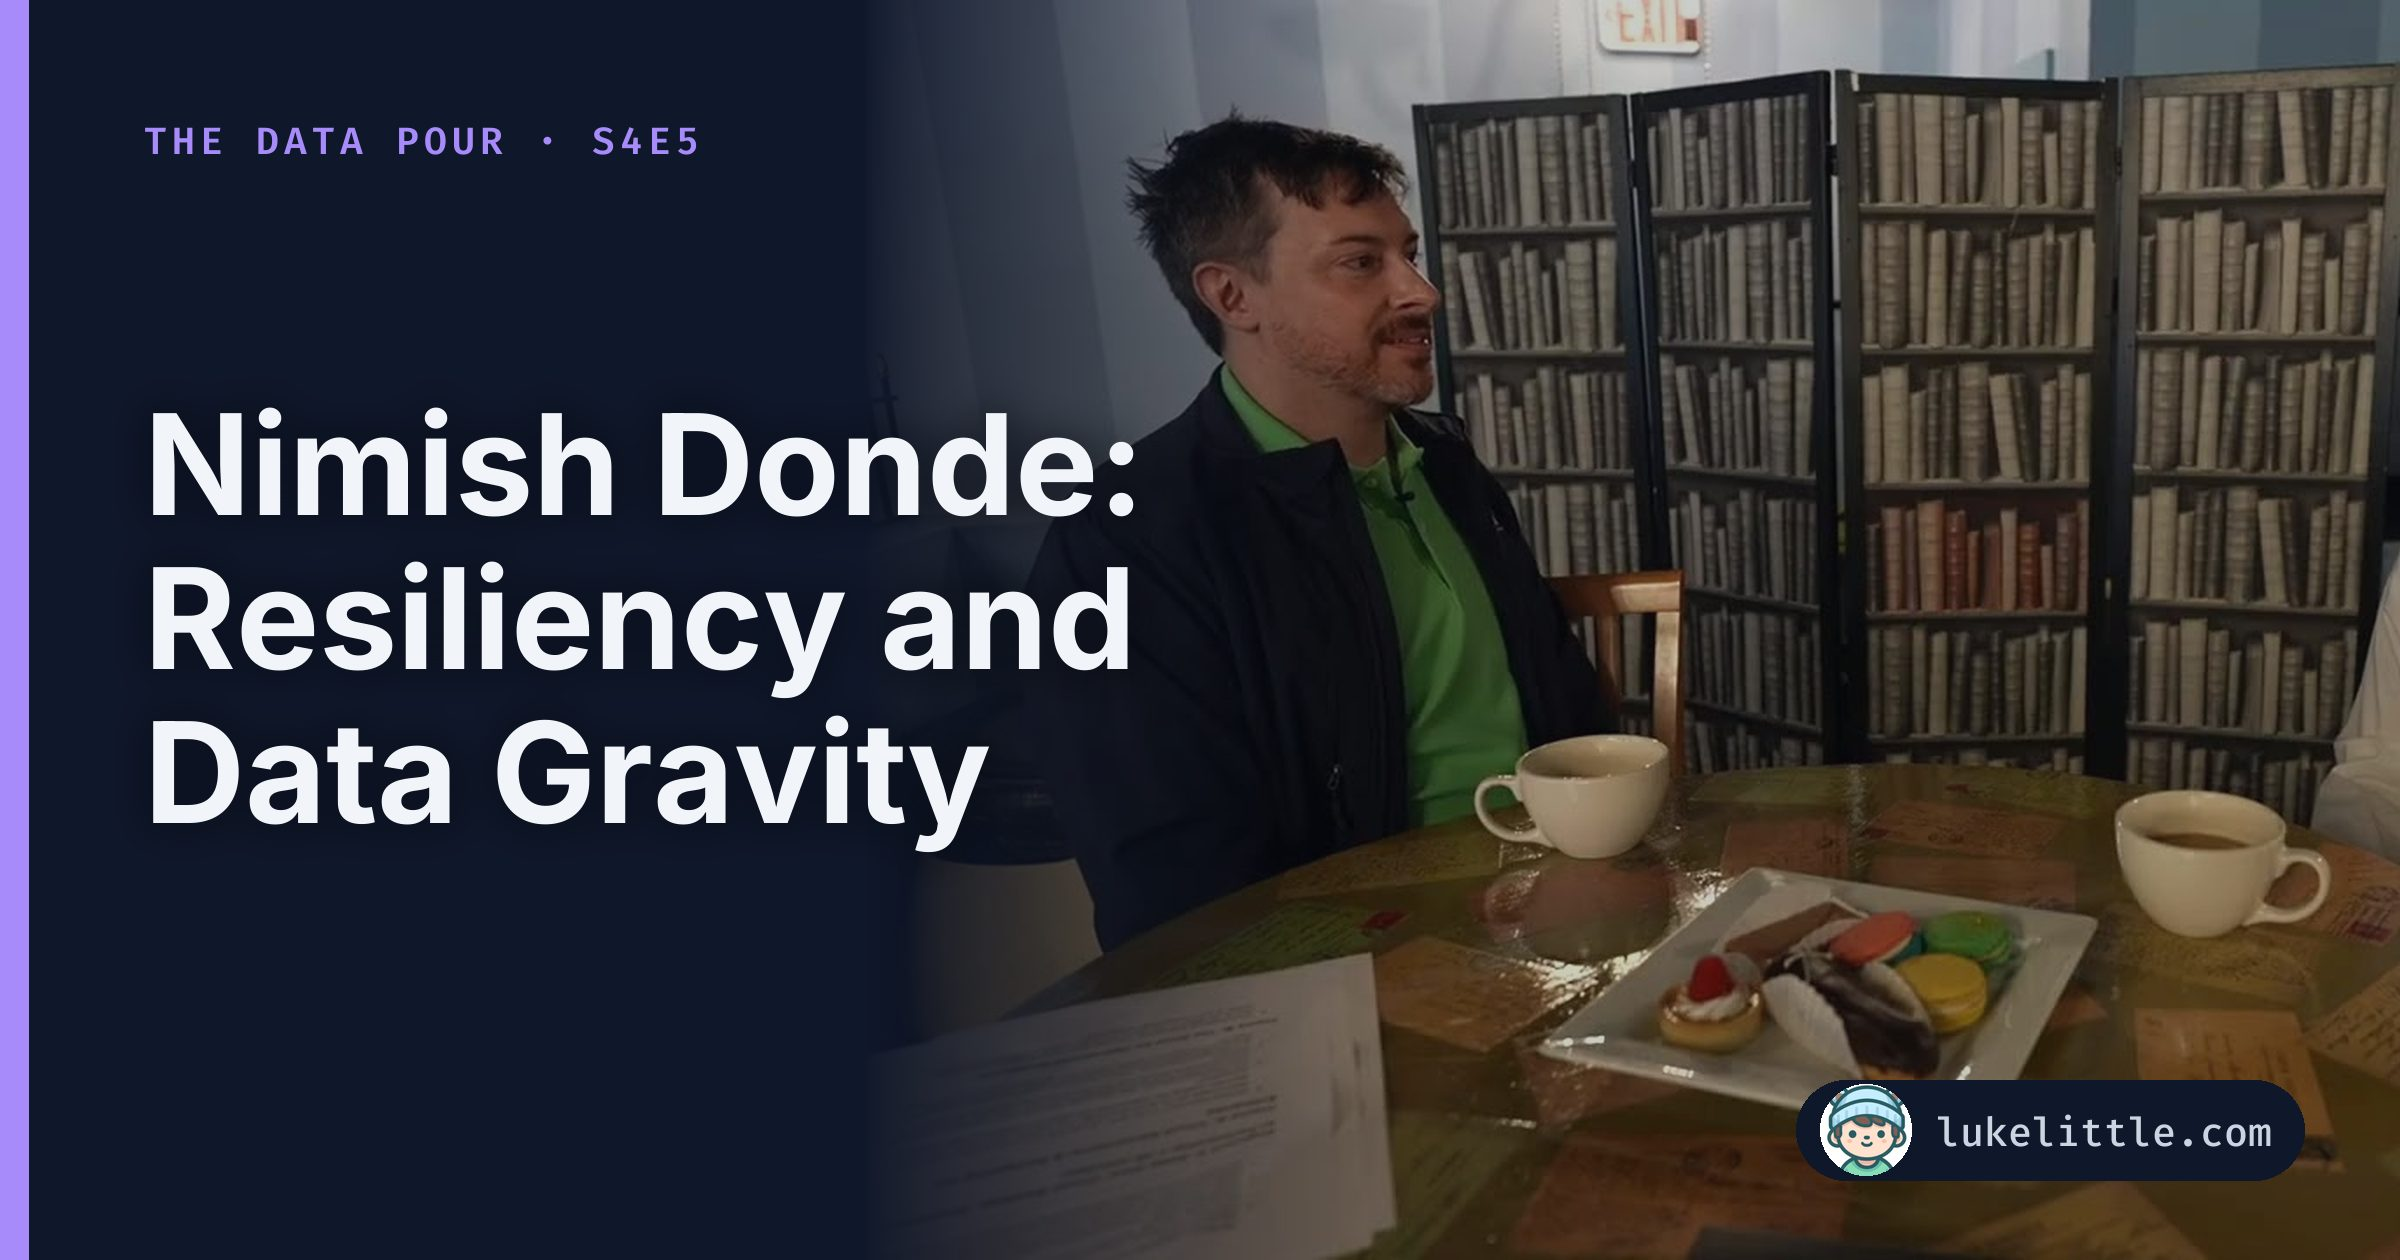
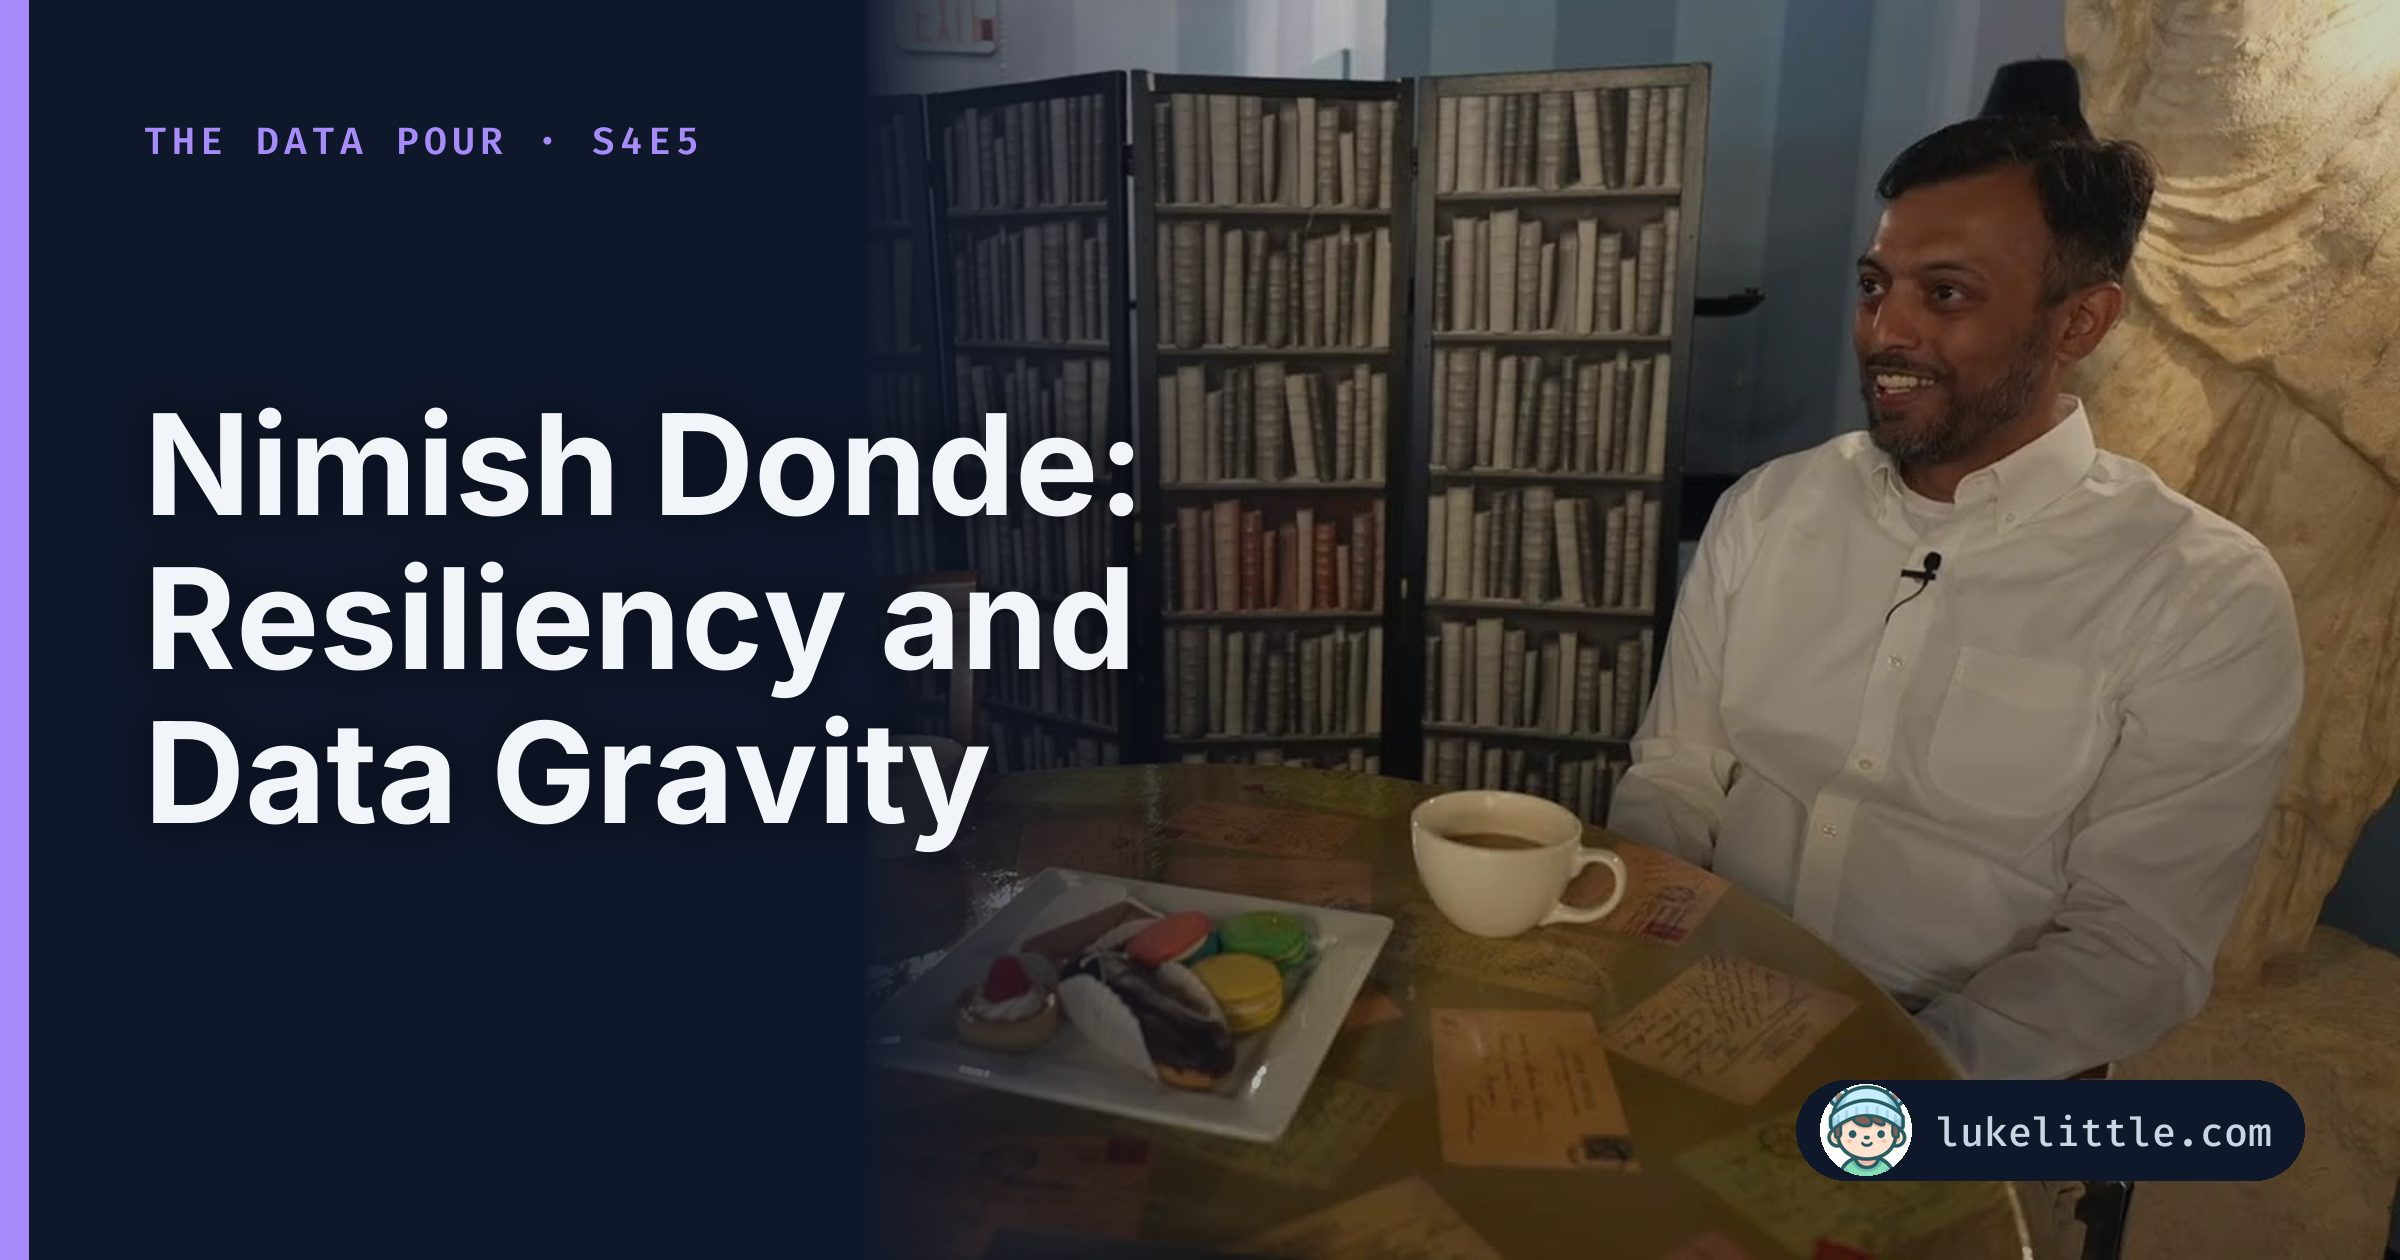
S4E5 cover: frame on Nimish

diff --git a/content/posts/2026/01/the-data-pour-s4e5-nimish-donde/index.md b/content/posts/2026/01/the-data-pour-s4e5-nimish-donde/index.md
@@ -15,7 +15,7 @@ hero:
     label: "The Data Pour · S4E5"
     title: "Nimish Donde: Resiliency and Data Gravity"
     photo: "the-data-pour-s4e5-nimish-donde.jpg"
-    focus: [0.0, 0.4]
+    focus: [1.0, 0.4]
 ---
 
 For this episode of Data Pour, I sat down with Nimish Donde—Head of Cloud Platform and Security Engineering at Truist—at Amélie's French bakery in Charlotte. It's a place that's been part of the city's fabric since 2008, growing from a single 24-hour location in NoDa (that I used to frequent during college) to four locations across Charlotte.
